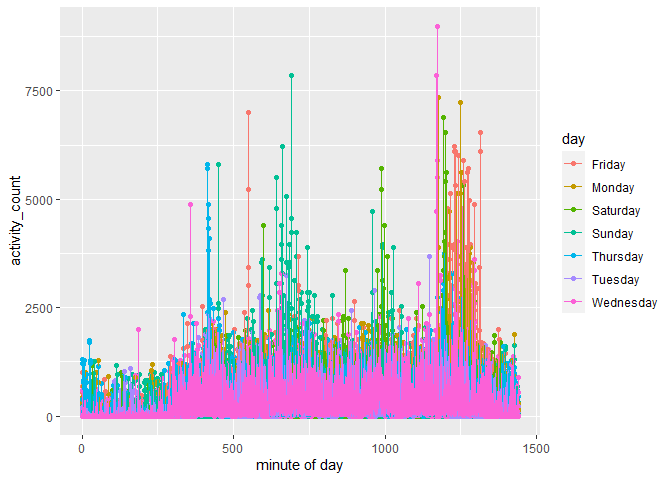
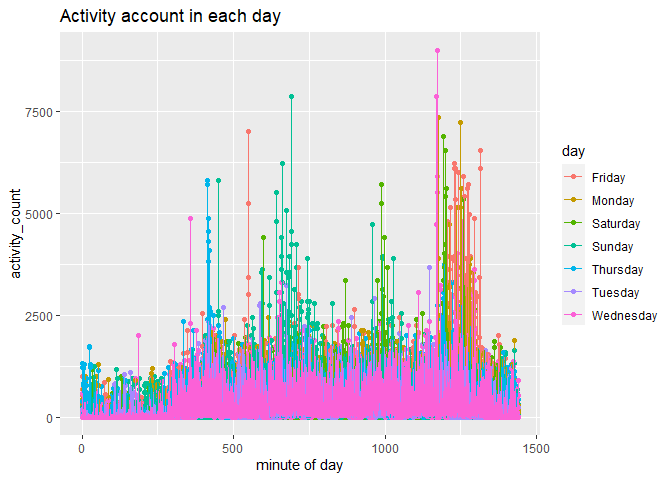
Forget to commit on the last correction...

diff --git a/P8105_hw3_mc5296.md b/P8105_hw3_mc5296.md
@@ -18,6 +18,7 @@ library(tidyverse)
 ``` r
 library(ggplot2)
 library(patchwork)
+library(ggridges)
 ```
 
 # Problem 1
@@ -224,11 +225,12 @@ accelerometer %>%
     ## 10     1 Wednesday            340115.
     ## # … with 25 more rows
 
-As is shown in the table, there is no obvious trend. But there are two
-days that are abnormal,which are the Saturday of the 4th and 5th week.
-The activity count of every minute is 1. \## Make a single-panel plot
-that shows the 24-hour activity time courses for each day and use color
-to indicate day of the week.
+I arranged the total activity of each day by descending. As is shown in
+the table, there is no obvious trend. But there are two days that are
+abnormal,which are the Saturday of the 4th and 5th week. The activity
+count of every minute is 1.
+
+## Make a single-panel plot that shows the 24-hour activity time courses for each day and use color to indicate day of the week.
 
 ``` r
 accelerometer %>%
@@ -237,14 +239,20 @@ accelerometer %>%
                names_to = "minute_of_day",
                names_prefix = "activity.",
                values_to = "activity_count") %>%
-  ggplot(aes(x = as.numeric(minute_of_day), y = activity_count,color = day)) +
-    geom_point() + geom_line() + labs(x = "minute of day")
+  ggplot(aes(x = as.numeric(minute_of_day), y = activity_count,color = day)) +  #"minute_of_day" is a character vector, so we need to convert it to numeric vector.
+  labs(title = "Activity account in each day") +
+  geom_point() + geom_line() + labs(x = "minute of day")
 ```
 
-![](P8105_hw3_mc5296_files/figure-gfm/unnamed-chunk-10-1.png)<!-- --> As
-is shown in the plot, the activity count is mostly low during night and
-high during the day. It is especially high in the morning and evening.
-\# P3 \## import the data
+![](P8105_hw3_mc5296_files/figure-gfm/unnamed-chunk-10-1.png)<!-- -->
+
+As is shown in the plot, the activity count is mostly low during night
+and high during the day. It is especially high in the morning and
+evening.
+
+# P3
+
+## import the data
 
 ``` r
 library(p8105.datasets)
@@ -289,7 +297,14 @@ summary(ny_noaa)
     ##  Max.   :9195.0                                        
     ##  NA's   :591786
 
-## Data cleaning
+The dataset has 2595176 rows and 7 variables. “Id” is the key for every
+distinct station. “date” is the recording date,“prcp is precipation and
+snow is snowfall of that day.”Snwd” is snow depth. And we also have
+“tmax” and “tmin”, which represents the max and min tempature of that
+day. These data are recorded by each distinct station. We have thousands
+missing data in ”prcp”, “snwd”,“snow”, “tmax”,“tmin”. In order to
+calculate the mean of these variables. We had to remove the missing
+values. \## Data cleaning
 
 ``` r
 cleaned_noaa <- ny_noaa %>%
@@ -334,15 +349,21 @@ snow in most of a year and we expect to see snow only in winter.
 
 ``` r
 cleaned_noaa %>%
-  filter(month %in% c("01","07"), !is.na(tmax)) %>%
+  filter(month %in% c("01","07")) %>% 
   group_by(id,year,month)%>%
   summarize(
-    mean_tmax = mean(tmax)
+    mean_tmax = mean(tmax,na.rm = TRUE)  # remove the missing values, otherwise we cannot calculate the mean.
   ) %>%
-ggplot(aes(x=year, y = mean_tmax, group = id, color = id))+
-  geom_line()+
+ggplot(aes(x= as.numeric(year), y = mean_tmax, color = id))+
+  geom_point() +
+  geom_line() +
   facet_grid(.~ month)+
-   theme(axis.title =  element_text(size=9,face = "bold"), # set the size of the xlabel
+  labs(title = "Mean max temperature of January and July from 1981 to 2010",
+       x = "Year",
+       y = "mean max temperature ") +
+   theme(
+     legend.position = "none",
+     axis.title =  element_text(size=9,face = "bold"), # set the size of the xlabel
         axis.text.x = element_text(angle=70,  # rotate the xlabel
                                      hjust = 1)) # adjust the position of the xlabel text
 ```
@@ -350,23 +371,37 @@ ggplot(aes(x=year, y = mean_tmax, group = id, color = id))+
     ## `summarise()` has grouped output by 'id', 'year'. You can override using the
     ## `.groups` argument.
 
+    ## Warning: Removed 5970 rows containing missing values (geom_point).
+
+    ## Warning: Removed 5640 row(s) containing missing values (geom_path).
+
 ![](P8105_hw3_mc5296_files/figure-gfm/unnamed-chunk-13-1.png)<!-- -->
+Here I used line to show the trends of mean max temperature of January
+and JUly across the years. The range of mean max temperature in January
+is in a range of -10 degress to 10 degrees.In July, the range is 20 to
+35. Both of them fluctuated with the year. I can see some outliers, For
+example, in July’s plot. There is a point below 15, which is abnormal in
+July. Similar, there is a very low point in January, 1982
 
 ``` r
 p1 <- cleaned_noaa %>%
   filter(!is.na(tmin), !is.na(tmax))%>%
   ggplot(aes(x = tmin, y = tmax))+
-  geom_hex()
+  geom_hex()+
+  theme(legend.position = "left")
 
 p2<- cleaned_noaa %>%
   filter(snow>0 & snow<100)%>%
-  ggplot(aes(x = snow,fill = year)) +
-  geom_density(alpha = 0.5)+
+  ggplot(aes(x = snow,y = year)) +
+  geom_density_ridges(alpha = 0.5) +
+  labs(x = "Snowfall(mm)") +
   theme(axis.title =  element_text(size=9,face = "bold"), # set the size of the xlabel
         axis.text.x = element_text(angle=70,  # rotate the xlabel
                                      hjust = 1)) # adjust the position of the xlabel text
 
 p1 + p2
 ```
+
+    ## Picking joint bandwidth of 3.76
 
 ![](P8105_hw3_mc5296_files/figure-gfm/unnamed-chunk-14-1.png)<!-- -->
